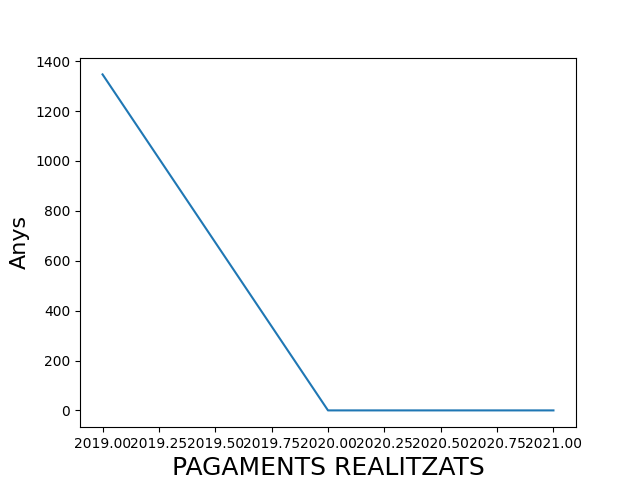
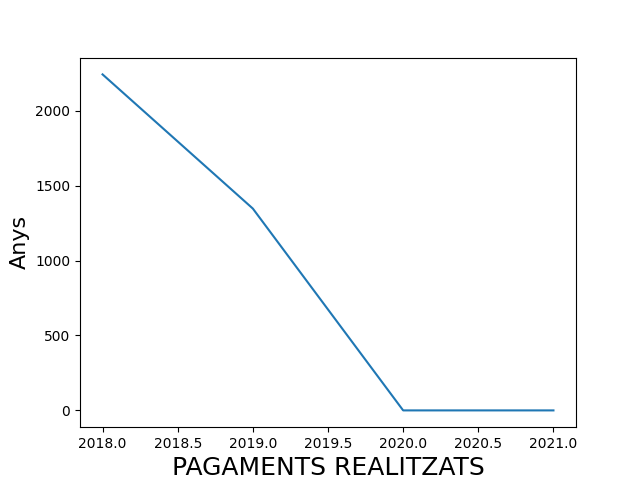
Generar gráficos hecho

diff --git a/main.py b/main.py
@@ -3,7 +3,8 @@ from lithops import Storage
 import matplotlib.pyplot as plt
 import pandas as pd
 import io
-
+import requests
+from requests.auth import HTTPBasicAuth
 import requests
 import json
 
@@ -29,7 +30,8 @@ def mostrarMenu():
     print("Opcion 5: Afegir una nova dada a un document csv")
     print("Opcion 6: Realitzar una consulta document")
     print("Opcion 7: Invocar funcion IBM cloud")
-    print("Opcion 8: Generar gráfico")
+    print("Opcion 8: Genera el gráfico que quieras")
+    print("Opción 9: Genera el gráfico de ejemplo de 'PAGAMENTS REALITZATS' per 'Alcaldia-Òrgans de govern-Dietes organs govern'")
     opcion = int(input())
     return opcion
 
@@ -44,25 +46,20 @@ def inicialitzar():
     print('Les dades pressupostaries de cada any es guarden en un fitxer csv\n')
 
 def getCsvData(values):
-    valorAConsultar= values["valorAConsultar"] #valor que volem analitzar graficament
-    columnaACercar = values["columnaACercar"]   #columna de la que volem buscar el id
-    idCerca = values["idCerca"]  #valor del csv del que volem extreure dades
-    files = "./PressupostDespesesAjReus"
-    index = 2019
-    anys = []
-    consultes = []
-    for i in range (3):
-        filePath = files + str(index) + ".csv"
-        df = pd.read_csv(filePath)
-        consulta = df[df[columnaACercar] ==  idCerca][valorAConsultar].iloc[0]
-        print(consulta)
-        consultes.append(consulta)
-        anys.append(index)
-        index+=1
-    result = {
-        "anys": anys,
-        "consultes": consultes
+    url = 'https://us-south.functions.cloud.ibm.com/api/v1/namespaces/victor.cano%40estudiants.urv.cat_dev/actions/plolt?blocking=true'
+    data = { 
+        "valorAConsultar": values["valorAConsultar"],
+        "columnaACercar": "DESCRIPCIÓ PARTIDA" , 
+        "idCerca": values["idCerca"]
     }
+    jsonData = json.dumps(data)
+    headers = {'content-type': 'application/json', 'Accept-Charset': 'UTF-8'}
[1 lines of base64/hex data omitted]
+    print("S'ha rebut la resposta de la funcio del cloud")
+    response = json.loads(r.text)
+    result = {}
+    result["anys"] = response["response"]["result"]["anys"]
+    result["consultes"] = response["response"]["result"]["consultes"]
     return result
     
 if __name__ == '__main__':
@@ -136,6 +133,24 @@ if __name__ == '__main__':
             print(response)
             print("\n")
         if opcion == 8:
+            print("Introdueix el nom de la columna a analitzar (per exemple 'PAGAMENTS REALITZATS')")
+            col = input()
+            print("Introdueix un valor de alguna fila de 'DESCRIPCIO PARTIDA' per a analitzar")
+            row = input()
+            values = { 
+                "valorAConsultar": col, #valor que volem analitzar graficament
+                "columnaACercar": "DESCRIPCIÓ PARTIDA" , #columna de la que volem buscar el id
+                "idCerca": row #valor del csv del que volem extreure dades
+            }
+            r = getCsvData(values)
+            plt.figure()
+            plt.plot(r["anys"], r["consultes"])
+            plt.xlabel(values["valorAConsultar"], fontsize=18)
+            plt.ylabel('Anys', fontsize=16)
+            plt.savefig("./images/" + col + "Reus.png")
+            print("Gràfic generat a ./images")
+            print()
+        if opcion == 9:
             values = { 
                 "valorAConsultar": "PAGAMENTS REALITZATS", #valor que volem analitzar graficament
                 "columnaACercar": "DESCRIPCIÓ PARTIDA" , #columna de la que volem buscar el id
@@ -147,4 +162,6 @@ if __name__ == '__main__':
             plt.xlabel(values["valorAConsultar"], fontsize=18)
             plt.ylabel('Anys', fontsize=16)
             plt.savefig("./images/DespesesReus.png")
+            print("Gràfic generat a ./images")
+            print()
         opcion = mostrarMenu()
